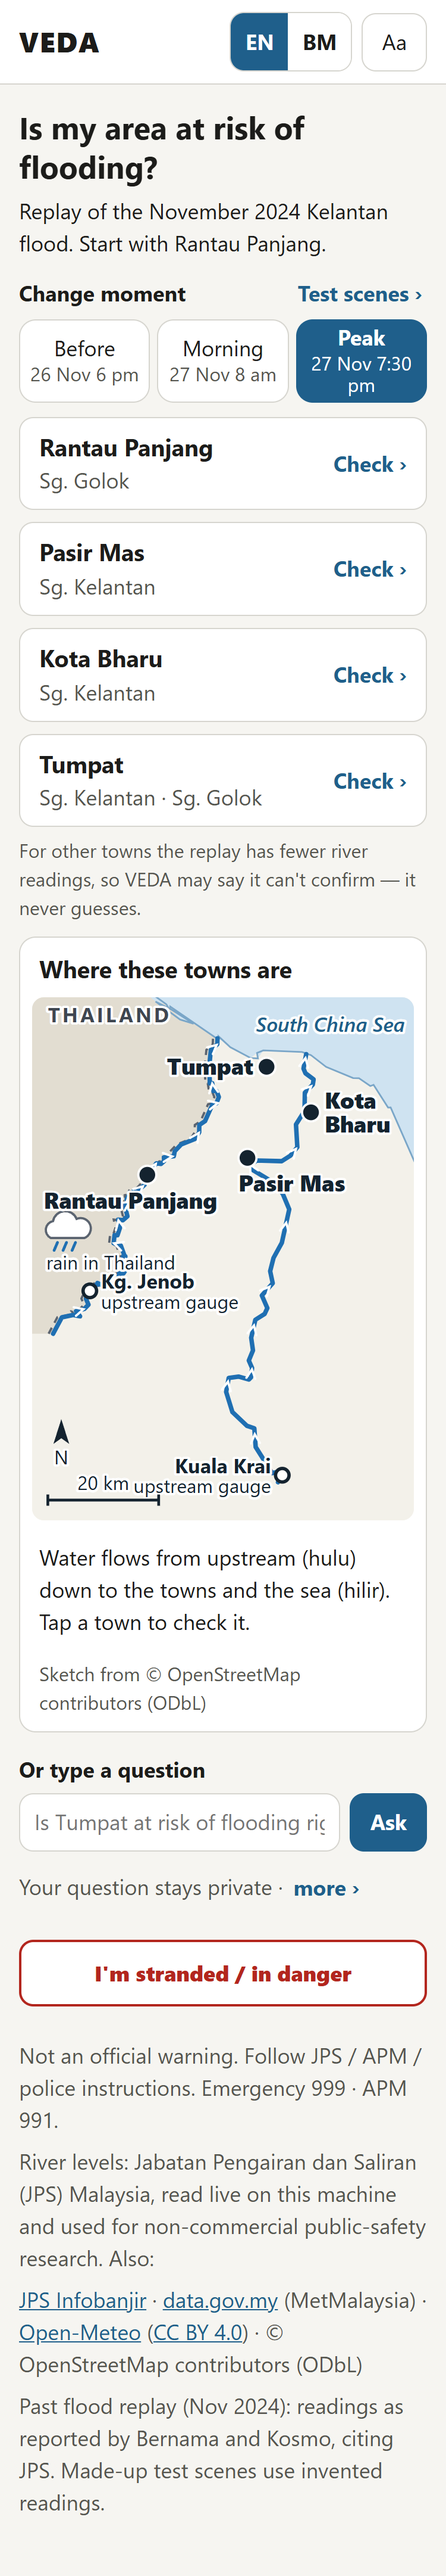
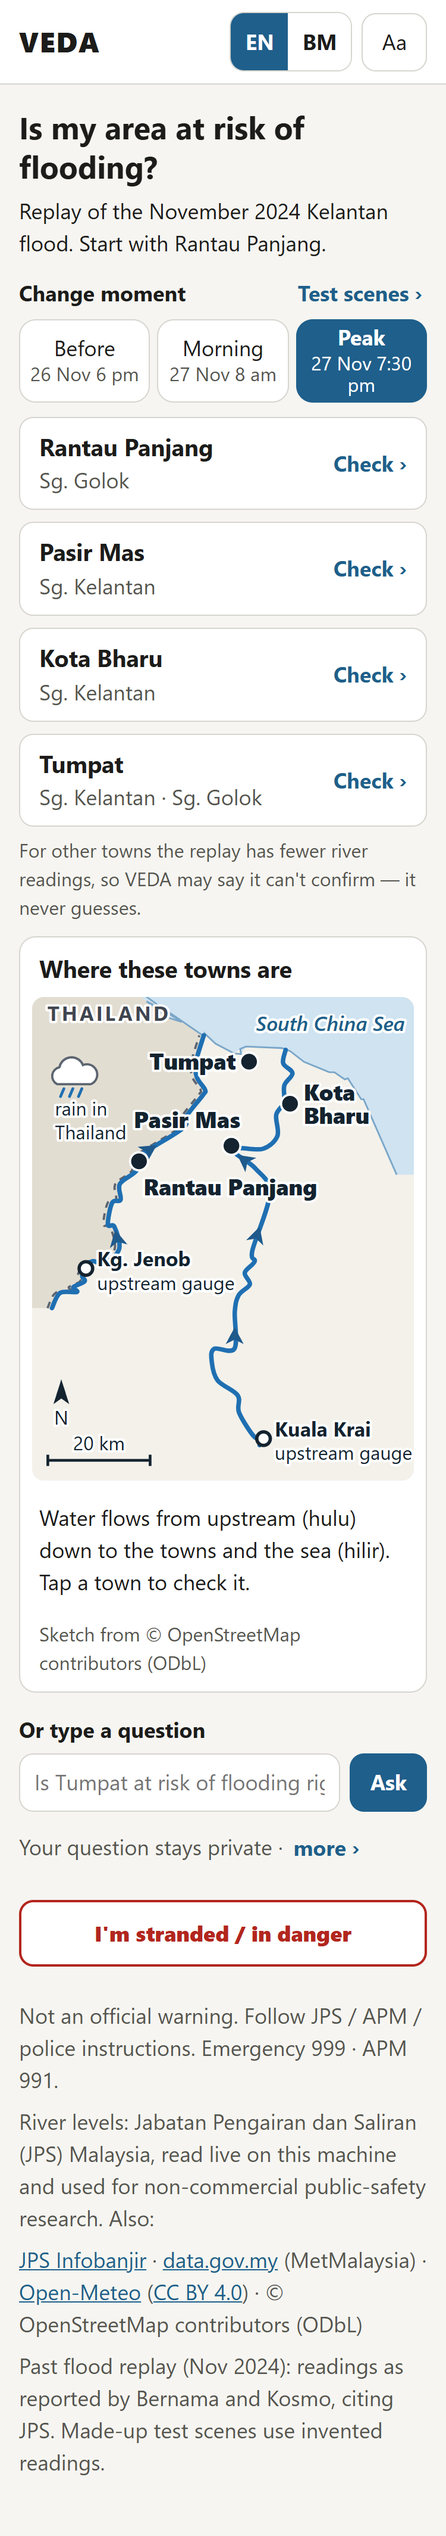
fix: B-87 map polish: Kuala Krai and Rantau Panjang labels right of their dots, filled dark-blue downstream arrows (3 + 2), smooth river and border curves, rain cloud inside Thailand; README test count 943

Changed region(s): [[0.0307, 0.0312, 0.9507, 0.9683], [0.5827, 0.0312, 0.92, 0.1874], [0.7667, 0.6872, 0.9507, 0.7184]]

diff --git a/app/web/index.html b/app/web/index.html
@@ -136,7 +136,7 @@
   .m-coast { fill: none; stroke: #7aa6c8; stroke-width: 1.5; }
   .m-border { fill: none; stroke: #5B6470; stroke-width: 2; stroke-dasharray: 6 5; transform: translate(-4px, 0); }
   .m-river { fill: none; stroke: #1f6fb2; stroke-width: 4; stroke-linejoin: round; stroke-linecap: round; }
-  .m-arrow { fill: none; stroke: #ffffff; stroke-width: 2; stroke-linecap: round; }
+  .m-arrow { fill: #1F5A8C; stroke: none; }
   .m-label { font: 700 18px system-ui, -apple-system, "Segoe UI", sans-serif; fill: #14232F; paint-order: stroke;
              stroke: #ffffff; stroke-width: 4px; stroke-linejoin: round; }
   .m-small { font-size: 17px; font-weight: 400; }
@@ -220,26 +220,27 @@
   <div class="card map-box" id="map-box">
     <h2 data-t="map_heading"></h2>
 <!-- MAP START (scripts/make_home_map.py) -->
-<svg viewBox="0 0 340 465" class="home-map" role="group" aria-labelledby="map-title map-alt">
+<svg viewBox="0 0 340 430" class="home-map" role="group" aria-labelledby="map-title map-alt">
 <title id="map-title" data-t="map_title"></title><desc id="map-alt" data-t="map_alt"></desc>
-<rect width="340" height="465" class="m-land"/>
-<path d="M18.7 299.1 L26.5 284.5 L36.6 282.4 L42.7 283.6 L39.2 279.0 L46.4 277.1 L50.2 273.3 L47.9 267.9 L52.1 258.3 L56.2 258.2 L58.2 254.0 L63.7 256.6 L69.9 255.7 L76.8 250.1 L77.5 245.4 L81.4 245.5 L83.5 242.0 L83.0 230.3 L80.8 231.0 L82.0 228.9 L79.0 220.8 L72.6 218.6 L73.4 211.5 L76.0 211.6 L78.2 205.0 L76.7 197.7 L80.9 198.2 L84.9 194.7 L82.4 184.8 L86.2 182.2 L84.1 179.6 L86.0 176.6 L87.6 178.4 L87.0 174.8 L89.1 176.9 L90.4 172.1 L92.6 173.5 L100.2 166.7 L99.5 159.2 L103.3 152.9 L106.2 153.8 L110.6 147.6 L114.8 148.1 L117.6 145.6 L117.4 142.3 L126.2 141.3 L127.0 136.9 L132.8 130.8 L144.8 126.1 L148.8 120.1 L148.9 113.5 L154.0 110.1 L160.7 95.1 L164.1 94.3 L166.3 88.7 L164.2 83.3 L161.5 83.3 L160.4 76.4 L158.3 76.5 L157.7 61.7 L159.2 46.8 L164.9 41.8 L165.1 36.5 L165.1 -10 L-10 -10 L-10 299.1 Z" class="m-thai"/>
-<path d="M-34.1 -144.2 L-17.2 -118.2 L14.1 -77.7 L21.9 -73.9 L24.5 -76.4 L33.4 -65.8 L46.5 -62.1 L83.4 -19.8 L109.9 3.8 L119.6 6.3 L121.6 [JPS reading] L122.9 [JPS reading] L123.0 [JPS reading] L131.8 19.8 L143.8 23.5 L163.7 36.1 L166.1 34.8 L166.3 36.7 L176.5 44.4 L194.6 54.0 L200.3 49.5 L201.1 54.4 L205.9 47.2 L240.5 48.7 L248.4 51.5 L261.8 61.9 L285.9 71.8 L291.1 72.0 L301.2 78.9 L304.1 77.8 L317.0 98.0 L319.3 97.9 L351.3 170.6 L340 170.6 L340 0 L0 0 L0 -144.2 Z" class="m-sea"/>
-<path d="M18.7 299.1 L26.5 284.5 L36.6 282.4 L42.7 283.6 L39.2 279.0 L46.4 277.1 L50.2 273.3 L47.9 267.9 L52.1 258.3 L56.2 258.2 L58.2 254.0 L63.7 256.6 L69.9 255.7 L76.8 250.1 L77.5 245.4 L81.4 245.5 L83.5 242.0 L83.0 230.3 L80.8 231.0 L82.0 228.9 L79.0 220.8 L72.6 218.6 L73.4 211.5 L76.0 211.6 L78.2 205.0 L76.7 197.7 L80.9 198.2 L84.9 194.7 L82.4 184.8 L86.2 182.2 L84.1 179.6 L86.0 176.6 L87.6 178.4 L87.0 174.8 L89.1 176.9 L90.4 172.1 L92.6 173.5 L100.2 166.7 L99.5 159.2 L103.3 152.9 L106.2 153.8 L110.6 147.6 L114.8 148.1 L117.6 145.6 L117.4 142.3 L126.2 141.3 L127.0 136.9 L132.8 130.8 L144.8 126.1 L148.8 120.1 L148.9 113.5 L154.0 110.1 L160.7 95.1 L164.1 94.3 L166.3 88.7 L164.2 83.3 L161.5 83.3 L160.4 76.4 L158.3 76.5 L157.7 61.7 L159.2 46.8 L164.9 41.8 L165.1 36.5" class="m-border"/>
-<path d="M351.3 170.6 L319.3 97.9 L317.0 98.0 L304.1 77.8 L301.2 78.9 L291.1 72.0 L285.9 71.8 L261.8 61.9 L248.4 51.5 L240.5 48.7 L205.9 47.2 L200.3 49.5 L201.1 54.4 L194.6 54.0 L176.5 44.4 L166.1 34.8 L166.3 36.7 L163.7 36.1 L123.0 [JPS reading] L122.9 [JPS reading] L143.8 23.5 L131.8 19.8 L109.9 3.8 L121.6 [JPS reading] L119.6 6.3 L83.4 -19.8 L46.5 -62.1 L33.4 -65.8 L24.5 -76.4 L21.9 -73.9 L14.1 -77.7 L-17.2 -118.2 L-34.1 -144.2" class="m-coast"/>
-<path d="M219.0 431.1 L221.8 424.3 L219.1 421.8 L213.8 423.0 L199.1 399.8 L197.9 383.2 L191.4 381.0 L178.4 368.8 L172.8 350.8 L175.1 338.4 L183.8 337.2 L193.1 339.8 L194.9 338.0 L195.9 329.5 L193.0 322.9 L196.7 313.9 L195.1 302.7 L198.8 286.7 L207.1 281.5 L209.5 276.3 L204.6 265.1 L214.3 254.2 L212.0 243.5 L215.0 231.7 L222.4 218.3 L229.0 188.5 L223.3 174.9 L215.0 164.7 L196.8 153.7 L194.4 149.2 L200.0 145.1 L222.3 145.7 L230.0 140.8 L236.2 133.3 L235.0 113.1 L242.6 101.1 L242.9 84.8 L250.0 77.6 L250.7 73.0 L243.5 67.6 L241.7 63.4 L244.1 50.6" class="m-river"/><path d="M-5 -4 L3 0 L-5 4" transform="translate(198.5 391.5) rotate(-94)" class="m-arrow"/><path d="M-5 -4 L3 0 L-5 4" transform="translate(173.9 344.6) rotate(-79)" class="m-arrow"/><path d="M-5 -4 L3 0 L-5 4" transform="translate(195.4 333.8) rotate(-83)" class="m-arrow"/><path d="M-5 -4 L3 0 L-5 4" transform="translate(196.9 294.7) rotate(-77)" class="m-arrow"/><path d="M-5 -4 L3 0 L-5 4" transform="translate(209.4 259.6) rotate(-48)" class="m-arrow"/><path d="M-5 -4 L3 0 L-5 4" transform="translate(225.7 203.4) rotate(-78)" class="m-arrow"/><path d="M-5 -4 L3 0 L-5 4" transform="translate(195.6 151.4) rotate(-118)" class="m-arrow"/><path d="M-5 -4 L3 0 L-5 4" transform="translate(233.1 137.1) rotate(-50)" class="m-arrow"/><path d="M-5 -4 L3 0 L-5 4" transform="translate(246.4 81.2) rotate(-45)" class="m-arrow"/><path d="M-5 -4 L3 0 L-5 4" transform="translate(242.9 57.0) rotate(-79)" class="m-arrow"/>
-<path d="M18.7 299.1 L26.5 284.5 L36.6 282.4 L42.7 283.6 L39.2 279.0 L46.4 277.1 L50.2 273.3 L47.9 267.9 L52.1 258.3 L56.2 258.2 L58.2 254.0 L63.7 256.6 L69.9 255.7 L76.8 250.1 L77.5 245.4 L81.4 245.5 L83.5 242.0 L83.0 230.3 L80.8 231.0 L82.0 228.9 L79.0 220.8 L72.6 218.6 L73.4 211.5 L76.0 211.6 L78.2 205.0 L76.7 197.7 L80.9 198.2 L84.9 194.7 L82.4 184.8 L86.2 182.2 L84.1 179.6 L86.0 176.6 L87.6 178.4 L87.0 174.8 L89.1 176.9 L90.4 172.1 L92.6 173.5 L100.2 166.7 L99.5 159.2 L103.3 152.9 L106.2 153.8 L110.6 147.6 L114.8 148.1 L117.6 145.6 L117.4 142.3 L126.2 141.3 L127.0 136.9 L132.8 130.8 L144.8 126.1 L148.8 120.1 L148.9 113.5 L154.0 110.1 L160.7 95.1 L164.1 94.3 L166.3 88.7 L164.2 83.3 L161.5 83.3 L160.4 76.4 L158.3 76.5 L157.7 61.7 L159.2 46.8 L164.9 41.8 L165.1 36.5" class="m-river"/><path d="M-5 -4 L3 0 L-5 4" transform="translate(42.8 278.1) rotate(-15)" class="m-arrow"/><path d="M-5 -4 L3 0 L-5 4" transform="translate(54.2 258.2) rotate(-1)" class="m-arrow"/><path d="M-5 -4 L3 0 L-5 4" transform="translate(73.3 252.9) rotate(-39)" class="m-arrow"/><path d="M-5 -4 L3 0 L-5 4" transform="translate(83.2 236.2) rotate(-92)" class="m-arrow"/><path d="M-5 -4 L3 0 L-5 4" transform="translate(75.8 219.7) rotate(-161)" class="m-arrow"/><path d="M-5 -4 L3 0 L-5 4" transform="translate(77.5 201.3) rotate(-102)" class="m-arrow"/><path d="M-5 -4 L3 0 L-5 4" transform="translate(84.3 183.5) rotate(-34)" class="m-arrow"/><path d="M-5 -4 L3 0 L-5 4" transform="translate(87.3 176.6) rotate(-99)" class="m-arrow"/><path d="M-5 -4 L3 0 L-5 4" transform="translate(96.4 170.1) rotate(-42)" class="m-arrow"/><path d="M-5 -4 L3 0 L-5 4" transform="translate(108.4 150.7) rotate(-55)" class="m-arrow"/><path d="M-5 -4 L3 0 L-5 4" transform="translate(121.8 141.8) rotate(-6)" class="m-arrow"/><path d="M-5 -4 L3 0 L-5 4" transform="translate(146.8 123.1) rotate(-56)" class="m-arrow"/><path d="M-5 -4 L3 0 L-5 4" transform="translate(162.4 94.7) rotate(-13)" class="m-arrow"/><path d="M-5 -4 L3 0 L-5 4" transform="translate(160.9 79.8) rotate(-99)" class="m-arrow"/><path d="M-5 -4 L3 0 L-5 4" transform="translate(162.1 44.3) rotate(-41)" class="m-arrow"/>
-<text x="14.2" y="22.4" class="m-label m-thai-label" data-t="map_thailand"></text>
-<g transform="translate(30.6 208.0)" class="m-cloud"><path d="M-14 6 a8 8 0 0 1 2 -15 a11 11 0 0 1 21 -2 a8 8 0 0 1 7 17 Z"/><path d="M-8 10 l-3 7 M0 10 l-3 7 M8 10 l-3 7" class="m-rain"/><text x="-18" y="34" class="m-label m-small" data-t="map_rain"></text></g>
-<text x="332" y="30.9" class="m-label m-sea-label" text-anchor="end" data-t="map_sea"></text>
-<circle cx="222.8" cy="424.9" r="6" class="m-gauge"/><text x="212.8" y="422.9" text-anchor="end" class="m-label">Kuala Krai</text><text x="212.8" y="440.9" text-anchor="end" class="m-label m-small" data-t="map_gauge"></text>
-<circle cx="51.4" cy="261.0" r="6" class="m-gauge"/><text x="61.4" y="259.0" text-anchor="start" class="m-label">Kg. Jenob</text><text x="61.4" y="277.0" text-anchor="start" class="m-label m-small" data-t="map_gauge"></text>
-<g class="m-town" role="button" tabindex="0" data-town="Pasir Mas"><rect x="175.8" y="130.8" width="128.4" height="56" rx="10" class="m-hit"/><circle cx="191.8" cy="142.8" r="8" class="m-dot"/><text x="183.8" y="172.8" text-anchor="start" class="m-label m-town-label">Pasir Mas</text></g>
-<g class="m-town" role="button" tabindex="0" data-town="Rantau Panjang"><rect x="0.4" y="141.8" width="174.4" height="56" rx="10" class="m-hit"/><circle cx="102.6" cy="157.8" r="8" class="m-dot"/><text x="87.6" y="187.8" text-anchor="middle" class="m-label m-town-label">Rantau Panjang</text></g>
-<g class="m-town" role="button" tabindex="0" data-town="Kota Bharu"><rect x="232.4" y="74.3" width="90.0" height="56" rx="10" class="m-hit"/><circle cx="248.4" cy="102.3" r="8" class="m-dot"/><text x="260.4" y="99.3" class="m-label m-town-label">Kota<tspan x="260.4" dy="21">Bharu</tspan></text></g>
-<g class="m-town" role="button" tabindex="0" data-town="Tumpat"><rect x="123.2" y="33.8" width="101.6" height="56" rx="10" class="m-hit"/><circle cx="208.8" cy="61.8" r="8" class="m-dot"/><text x="196.8" y="68.8" text-anchor="end" class="m-label m-town-label">Tumpat</text></g>
-<g transform="translate(26 391)" class="m-north"><path d="M0 -16 L7 6 L0 1 L-7 6 Z"/><text x="0" y="24" text-anchor="middle" class="m-label m-small">N</text></g>
-<g class="m-scale"><path d="M14 447 h98.7 M14 442 v10 M112.7 442 v10"/><text x="63.4" y="438" text-anchor="middle" class="m-label m-small">20 km</text></g>
+<rect width="340" height="430" class="m-land"/>
+<path d="M17.7 276.6 C18.9 274.4 21.2 265.5 24.9 263.1 C28.6 260.7 37.9 263.2 39.9 262.3 C41.9 261.4 35.6 259.6 36.7 258.0 C37.9 256.4 45.5 254.5 46.8 252.8 C48.1 251.1 44.3 250.1 44.6 247.8 C44.9 245.5 46.9 241.1 48.5 238.9 C50.1 236.8 51.5 235.3 54.2 234.9 C57.0 234.5 61.1 238.3 65.0 236.5 C68.9 234.7 76.2 229.2 77.6 223.8 C79.0 218.4 75.0 207.9 73.3 204.3 C71.6 200.7 67.8 205.8 67.5 202.2 C67.2 198.6 69.4 186.7 71.3 183.0 C73.2 179.3 77.7 183.0 78.8 180.2 C79.9 177.4 75.8 170.6 78.1 166.3 C80.4 162.0 90.0 158.5 92.9 154.4 C95.9 150.3 88.9 147.9 95.8 141.6 C102.7 135.3 127.1 122.8 134.1 116.8 C141.1 110.8 134.9 110.2 137.9 105.3 C140.9 100.4 149.2 91.3 151.9 87.5 C154.6 83.7 154.9 85.1 154.0 82.4 C153.1 79.7 147.9 75.3 146.6 71.1 C145.3 66.9 144.9 63.6 146.0 57.4 C147.1 51.2 151.8 38.0 152.9 34.1 L152.9 -10 L-10 -10 L-10 276.6 Z" class="m-thai"/>
+<path d="M-31.0 -132.6 L-15.4 -108.7 L13.5 -71.2 L20.7 -67.7 L23.0 -70.0 L31.3 -60.2 L43.4 -56.9 L77.4 -17.8 L101.9 3.9 L110.8 6.2 L112.7 9.4 L113.9 9.9 L114.0 8.1 L122.1 18.7 L133.2 22.2 L151.5 33.8 L153.8 32.6 L154.0 34.3 L163.3 41.5 L180.1 50.3 L185.3 46.1 L186.1 50.7 L190.5 44.0 L222.4 45.4 L229.7 48.0 L242.1 57.6 L264.4 66.8 L269.2 66.9 L278.5 73.3 L281.2 72.3 L293.1 90.9 L295.2 90.9 L324.7 158.0 L340 158.0 L340 0 L0 0 L0 -132.6 Z" class="m-sea"/>
+<path d="M17.7 276.6 C18.9 274.4 21.2 265.5 24.9 263.1 C28.6 260.7 37.9 263.2 39.9 262.3 C41.9 261.4 35.6 259.6 36.7 258.0 C37.9 256.4 45.5 254.5 46.8 252.8 C48.1 251.1 44.3 250.1 44.6 247.8 C44.9 245.5 46.9 241.1 48.5 238.9 C50.1 236.8 51.5 235.3 54.2 234.9 C57.0 234.5 61.1 238.3 65.0 236.5 C68.9 234.7 76.2 229.2 77.6 223.8 C79.0 218.4 75.0 207.9 73.3 204.3 C71.6 200.7 67.8 205.8 67.5 202.2 C67.2 198.6 69.4 186.7 71.3 183.0 C73.2 179.3 77.7 183.0 78.8 180.2 C79.9 177.4 75.8 170.6 78.1 166.3 C80.4 162.0 90.0 158.5 92.9 154.4 C95.9 150.3 88.9 147.9 95.8 141.6 C102.7 135.3 127.1 122.8 134.1 116.8 C141.1 110.8 134.9 110.2 137.9 105.3 C140.9 100.4 149.2 91.3 151.9 87.5 C154.6 83.7 154.9 85.1 154.0 82.4 C153.1 79.7 147.9 75.3 146.6 71.1 C145.3 66.9 144.9 63.6 146.0 57.4 C147.1 51.2 151.8 38.0 152.9 34.1" class="m-border"/>
+<path d="M324.7 158.0 L295.2 90.9 L293.1 90.9 L281.2 72.3 L278.5 73.3 L269.2 66.9 L264.4 66.8 L242.1 57.6 L229.7 48.0 L222.4 45.4 L190.5 44.0 L185.3 46.1 L186.1 50.7 L180.1 50.3 L163.3 41.5 L153.8 32.6 L154.0 34.3 L151.5 33.8 L114.0 8.1 L113.9 9.9 L133.2 22.2 L122.1 18.7 L101.9 3.9 L112.7 9.4 L110.8 6.2 L77.4 -17.8 L43.4 -56.9 L31.3 -60.2 L23.0 -70.0 L20.7 -67.7 L13.5 -71.2 L-15.4 -108.7 L-31.0 -132.6" class="m-coast"/>
+<path d="M202.6 398.4 C203.0 397.4 206.0 393.4 205.2 392.2 C204.4 391.0 201.3 394.8 197.8 391.0 C194.3 387.2 186.8 375.6 184.3 369.5 C181.9 363.4 186.3 359.0 183.1 354.2 C179.9 349.4 169.0 345.9 165.2 340.9 C161.3 335.9 160.5 329.0 160.0 324.3 C159.5 319.6 158.7 314.8 162.1 312.8 C165.5 310.8 177.2 318.0 180.3 312.5 C183.4 307.0 179.9 287.8 180.5 279.9 C181.1 272.0 181.8 269.2 184.0 265.1 C186.2 261.0 193.0 258.8 193.9 255.5 C194.8 252.2 188.7 248.6 189.4 245.2 C190.1 241.8 197.1 238.4 198.2 235.1 C199.3 231.8 193.9 235.3 196.2 225.2 C198.5 215.1 211.4 186.6 211.8 174.5 C212.2 162.4 204.2 158.6 198.9 152.5 C193.6 146.4 182.2 141.1 179.9 138.1 C177.6 135.1 180.8 134.9 185.1 134.4 C189.4 133.9 200.1 136.7 205.7 134.9 C211.3 133.1 216.6 128.5 218.5 123.5 C220.4 118.5 216.4 109.8 217.4 104.8 C218.4 99.8 223.2 98.1 224.4 93.8 C225.6 89.5 223.3 83.0 224.6 78.7 C225.8 74.4 232.1 71.1 231.9 67.8 C231.7 64.5 224.6 62.3 223.6 58.9 C222.6 55.5 225.4 49.1 225.8 47.1" class="m-river"/>
+<path d="M17.7 276.6 C18.9 274.4 21.2 265.5 24.9 263.1 C28.6 260.7 37.9 263.2 39.9 262.3 C41.9 261.4 35.6 259.6 36.7 258.0 C37.9 256.4 45.5 254.5 46.8 252.8 C48.1 251.1 44.3 250.1 44.6 247.8 C44.9 245.5 46.9 241.1 48.5 238.9 C50.1 236.8 51.5 235.3 54.2 234.9 C57.0 234.5 61.1 238.3 65.0 236.5 C68.9 234.7 76.2 229.2 77.6 223.8 C79.0 218.4 75.0 207.9 73.3 204.3 C71.6 200.7 67.8 205.8 67.5 202.2 C67.2 198.6 69.4 186.7 71.3 183.0 C73.2 179.3 77.7 183.0 78.8 180.2 C79.9 177.4 75.8 170.6 78.1 166.3 C80.4 162.0 90.0 158.5 92.9 154.4 C95.9 150.3 88.9 147.9 95.8 141.6 C102.7 135.3 127.1 122.8 134.1 116.8 C141.1 110.8 134.9 110.2 137.9 105.3 C140.9 100.4 149.2 91.3 151.9 87.5 C154.6 83.7 154.9 85.1 154.0 82.4 C153.1 79.7 147.9 75.3 146.6 71.1 C145.3 66.9 144.9 63.6 146.0 57.4 C147.1 51.2 151.8 38.0 152.9 34.1" class="m-river"/>
+<path d="M-7 -8 L8 0 L-7 8 L-3 0 Z" transform="translate(180.4 301.6) rotate(-90)" class="m-arrow"/><path d="M-7 -8 L8 0 L-7 8 L-3 0 Z" transform="translate(200.3 211.9) rotate(-73)" class="m-arrow"/><path d="M-7 -8 L8 0 L-7 8 L-3 0 Z" transform="translate(189.2 145.2) rotate(-143)" class="m-arrow"/><path d="M-7 -8 L8 0 L-7 8 L-3 0 Z" transform="translate(75.6 214.8) rotate(-102)" class="m-arrow"/><path d="M-7 -8 L8 0 L-7 8 L-3 0 Z" transform="translate(104.2 136.1) rotate(-33)" class="m-arrow"/>
+<text x="13.6" y="21.1" class="m-label m-thai-label" data-t="map_thailand"></text>
+<g transform="translate(36.3 71.5)" class="m-cloud"><path d="M-14 6 a8 8 0 0 1 2 -15 a11 11 0 0 1 21 -2 a8 8 0 0 1 7 17 Z"/><path d="M-8 10 l-3 7 M0 10 l-3 7 M8 10 l-3 7" class="m-rain"/><text x="-16" y="34" class="m-label m-small" data-t="map_rain1"></text><text x="-16" y="55" class="m-label m-small" data-t="map_rain2"></text></g>
+<text x="332" y="30.1" class="m-label m-sea-label" text-anchor="end" data-t="map_sea"></text>
+<circle cx="206.1" cy="392.7" r="6" class="m-gauge"/><text x="216.1" y="390.7" text-anchor="start" class="m-label">Kuala Krai</text><text x="216.1" y="411.7" text-anchor="start" class="m-label m-small" data-t="map_gauge"></text>
+<circle cx="47.9" cy="241.4" r="6" class="m-gauge"/><text x="57.9" y="239.4" text-anchor="start" class="m-label">Kg. Jenob</text><text x="57.9" y="260.4" text-anchor="start" class="m-label m-small" data-t="map_gauge"></text>
+<g class="m-town" role="button" tabindex="0" data-town="Pasir Mas"><rect x="65.1" y="86.3" width="128.4" height="54" rx="10" class="m-hit"/><circle cx="177.5" cy="132.3" r="8" class="m-dot"/><text x="185.5" y="116.30000000000001" text-anchor="end" class="m-label m-town-label">Pasir Mas</text></g>
+<g class="m-town" role="button" tabindex="0" data-town="Rantau Panjang"><rect x="79.2" y="141.1" width="186.4" height="56" rx="10" class="m-hit"/><circle cx="95.2" cy="146.1" r="8" class="m-dot"/><text x="99.2" y="176.1" text-anchor="start" class="m-label m-town-label">Rantau Panjang</text></g>
+<g class="m-town" role="button" tabindex="0" data-town="Kota Bharu"><rect x="213.7" y="66.9" width="90.0" height="56" rx="10" class="m-hit"/><circle cx="229.7" cy="94.9" r="8" class="m-dot"/><text x="241.7" y="91.9" class="m-label m-town-label">Kota<tspan x="241.7" dy="21">Bharu</tspan></text></g>
+<g class="m-town" role="button" tabindex="0" data-town="Tumpat"><rect x="107.6" y="29.5" width="101.6" height="56" rx="10" class="m-hit"/><circle cx="193.2" cy="57.5" r="8" class="m-dot"/><text x="181.2" y="64.5" text-anchor="end" class="m-label m-town-label">Tumpat</text></g>
+<g transform="translate(26 356)" class="m-north"><path d="M0 -16 L7 6 L0 1 L-7 6 Z"/><text x="0" y="24" text-anchor="middle" class="m-label m-small">N</text></g>
+<g class="m-scale"><path d="M14 412 h91.1 M14 407 v10 M105.1 407 v10"/><text x="59.6" y="403" text-anchor="middle" class="m-label m-small">20 km</text></g>
 </svg>
 <!-- MAP END -->
     <p data-t="map_note"></p>
@@ -418,7 +419,7 @@ const UI = {
     map_heading: "Where these towns are", map_title: "Map: where the four towns are",
     map_note: "Water flows from upstream (hulu) down to the towns and the sea (hilir). Tap a town to check it.",
     map_credit: "Sketch from © OpenStreetMap contributors (ODbL)", map_thailand: "THAILAND", map_sea: "South China Sea",
-    map_rain: "rain in Thailand", map_gauge: "upstream gauge", map_check: "Check {town}",
+    map_rain1: "rain in", map_rain2: "Thailand", map_gauge: "upstream gauge", map_check: "Check {town}",
     map_alt: "Sketch map of north Kelantan. Sungai Kelantan flows north from Kuala Krai past Pasir Mas and Kota Bharu to the South China Sea near Tumpat. Sungai Golok flows north-east from Kg. Jenob past Rantau Panjang, along the border with Thailand, to the sea. Thailand lies west of the Golok.",
   },
   ms: {
@@ -471,7 +472,7 @@ const UI = {
     map_heading: "Di mana bandar-bandar ini", map_title: "Peta: di mana empat bandar ini",
     map_note: "Air mengalir dari hulu ke bandar-bandar dan ke laut (hilir). Tekan bandar untuk menyemaknya.",
     map_credit: "Lakaran daripada © penyumbang OpenStreetMap (ODbL)", map_thailand: "THAILAND", map_sea: "Laut China Selatan",
-    map_rain: "hujan di Thailand", map_gauge: "tolok hulu", map_check: "Semak {town}",
+    map_rain1: "hujan di", map_rain2: "Thailand", map_gauge: "tolok hulu", map_check: "Semak {town}",
     map_alt: "Peta lakaran utara Kelantan. Sungai Kelantan mengalir ke utara dari Kuala Krai melalui Pasir Mas dan Kota Bharu ke Laut China Selatan berhampiran Tumpat. Sungai Golok mengalir ke timur laut dari Kg. Jenob melalui Rantau Panjang, di sepanjang sempadan Thailand, ke laut. Thailand terletak di sebelah barat Sungai Golok.",
   },
 };

diff --git a/scripts/make_home_map.py b/scripts/make_home_map.py
@@ -23,14 +23,15 @@ LINES = ROOT / "data" / "map" / "home_map_lines.json"
 PAGE = ROOT / "app" / "web" / "index.html"
 START, END = "<!-- MAP START (scripts/make_home_map.py) -->", "<!-- MAP END -->"
 USER_AGENT = "VEDA-hackathon/0.1 (+https://github.com/vedacool/veda; one-off map sketch)"
-BBOX = (5.47, 101.80, 6.30, 102.40)           # south, west, north, east
+BBOX = (5.47, 101.80, 6.30, 102.45)           # south, west, north, east
 W = 340                                         # viewBox width; the height follows the map's shape
 PAD = 6
 SIMPLIFY_KM = 0.3
+DRAW_KM = 0.6                                    # simplified again when drawn, then curved
 UPSTREAM = ("5521044_DKKI0014", "_DTMH0008")    # Sg. Kelantan di Kuala Krai, Sg. Golok di Kg. Jenob
 # Label side per town, chosen so the four tap targets never overlap (Tumpat / Kota Bharu / Pasir Mas are close)
 # (side, how far the label's centre / start moves right of the dot). Measured at 375 px: no two targets overlap.
-SIDE = {"Rantau Panjang": ("below", -15), "Pasir Mas": ("below-start", 0), "Kota Bharu": ("right2", 0),
+SIDE = {"Rantau Panjang": ("right-below", 0), "Pasir Mas": ("above-end", 0), "Kota Bharu": ("right2", 0),
         "Tumpat": ("left", 0)}
 
 
@@ -137,15 +138,45 @@ def path(pts, xy):
     return "M" + " L".join(f"{x} {y}" for x, y in (xy(*p) for p in pts))
 
 
-def arrows(pts, xy, every=4):
-    """Small arrowheads along a river, pointing downstream (the list runs source -> mouth)."""
+def curve(pts, xy):
+    """A smooth path through the points (Catmull-Rom as cubic Beziers), so a river does not look jagged on a phone."""
+    p = [xy(*q) for q in pts]
+    out = [f"M{p[0][0]} {p[0][1]}"]
+    for i in range(len(p) - 1):
+        p0, p1, p2, p3 = p[max(i - 1, 0)], p[i], p[i + 1], p[min(i + 2, len(p) - 1)]
+        c1 = (round(p1[0] + (p2[0] - p0[0]) / 6, 1), round(p1[1] + (p2[1] - p0[1]) / 6, 1))
+        c2 = (round(p2[0] - (p3[0] - p1[0]) / 6, 1), round(p2[1] - (p3[1] - p1[1]) / 6, 1))
+        out.append(f"C{c1[0]} {c1[1]} {c2[0]} {c2[1]} {p2[0]} {p2[1]}")
+    return " ".join(out)
+
+
+def _along(p, f):
+    """The point at fraction f of the polyline p's length."""
+    seg = [math.dist(p[i], p[i + 1]) for i in range(len(p) - 1)]
+    goal, run = f * sum(seg), 0.0
+    for i, s in enumerate(seg):
+        if run + s >= goal:
+            t = (goal - run) / s if s else 0
+            return p[i][0] + t * (p[i + 1][0] - p[i][0]), p[i][1] + t * (p[i + 1][1] - p[i][1])
+        run += s
+    return p[-1]
+
+
+def arrows(pts, xy, fractions):
+    """Filled chevrons on the river pointing downstream (the list runs source -> mouth), each at the straightest
+    stretch near its fraction of the river's length."""
+    p = [xy(*q) for q in pts]
     out = []
-    for i in range(every, len(pts) - 1, every):
-        (ax, ay), (bx, by) = xy(*pts[i]), xy(*pts[i + 1])
-        ang = math.degrees(math.atan2(by - ay, bx - ax))
-        mx, my = round((ax + bx) / 2, 1), round((ay + by) / 2, 1)
-        out.append(f'<path d="M-5 -4 L3 0 L-5 4" transform="translate({mx} {my}) rotate({round(ang)})" '
-                   f'class="m-arrow"/>')
+    for f0 in fractions:
+        def bend(f, d=0.025):
+            a, b, c = _along(p, f - d), _along(p, f), _along(p, f + d)
+            t1, t2 = math.atan2(b[1] - a[1], b[0] - a[0]), math.atan2(c[1] - b[1], c[0] - b[0])
+            return abs((t2 - t1 + math.pi) % (2 * math.pi) - math.pi)
+        f = min((round(f0 + k / 100, 2) for k in range(-8, 9)), key=lambda x: (round(bend(x), 3), abs(x - f0)))
+        a, b, c = _along(p, f - 0.02), _along(p, f), _along(p, f + 0.02)
+        ang = math.degrees(math.atan2(c[1] - a[1], c[0] - a[0]))
+        out.append(f'<path d="M-7 -8 L8 0 L-7 8 L-3 0 Z" transform="translate({round(b[0], 1)} {round(b[1], 1)}) '
+                   f'rotate({round(ang)})" class="m-arrow"/>')
     return "".join(out)
 
 
@@ -160,12 +191,12 @@ def build():
     s, w, n, e = BBOX
     towns = [(r["name"], float(r["lat"]), float(r["lon"])) for r in rows(ROOT / "data" / "places.csv")]
     gauges = {r["station_key"]: r for r in rows(ROOT / "data" / "stations_mapping.csv", "gauge")}
-    golok, kel = data["golok"], data["kelantan"]
+    golok, kel = simplify(data["golok"], DRAW_KM), simplify(data["kelantan"], DRAW_KM)
     # Thailand: west of the Golok, from its southern end to the sea (a simplification: south of the river's source
     # the real border runs over land; the sketch stops the shading there)
     g_south, g_mouth = golok[0], golok[-1]
     mx = xy(*g_mouth)[0]              # up from the mouth, across the top, down the west edge; the sea is drawn over it
-    thai = path(golok, xy) + f" L{mx} -10 L-10 -10 L-10 {xy(g_south[0], w)[1]} Z"
+    thai = curve(golok, xy) + f" L{mx} -10 L-10 -10 L-10 {xy(g_south[0], w)[1]} Z"
     # the sea: north / east of the coastline, closed along the map's top and right edges
     coast = max(data["coast"], key=len)
     coast = sorted(coast, key=lambda p: p[1])
@@ -176,27 +207,29 @@ def build():
              f'<rect width="{W}" height="{height}" class="m-land"/>',
              f'<path d="{thai}" class="m-thai"/>',
              f'<path d="{sea}" class="m-sea"/>',
-             f'<path d="{path(golok, xy)}" class="m-border"/>']
+             f'<path d="{curve(golok, xy)}" class="m-border"/>']
     for line in data["coast"]:
         parts.append(f'<path d="{path(line, xy)}" class="m-coast"/>')
     for line in (kel, golok):
-        parts.append(f'<path d="{path(line, xy)}" class="m-river"/>' + arrows(line, xy))
+        parts.append(f'<path d="{curve(line, xy)}" class="m-river"/>')
+    parts.append(arrows(kel, xy, (0.22, 0.5, 0.74)) + arrows(golok, xy, ([JPS reading], [JPS reading])))   # 3 + 2, downstream
     tx, ty = xy(6.27, 101.815)
     parts.append(f'<text x="{tx}" y="{ty}" class="m-label m-thai-label" data-t="map_thailand"></text>')
-    cx, cy = xy(5.93, 101.845)                   # rain cloud over the Thai side of the upper Golok
+    cx, cy = xy(6.17, 101.86)                    # rain cloud inside the Thai side, clear of the river
     parts.append(f'<g transform="translate({cx} {cy})" class="m-cloud"><path d="M-14 6 a8 8 0 0 1 2 -15 a11 11 0 0 1 '
                  f'21 -2 a8 8 0 0 1 7 17 Z"/><path d="M-8 10 l-3 7 M0 10 l-3 7 M8 10 l-3 7" class="m-rain"/>'
-                 f'<text x="-18" y="34" class="m-label m-small" data-t="map_rain"></text></g>')
+                 f'<text x="-16" y="34" class="m-label m-small" data-t="map_rain1"></text>'
+                 f'<text x="-16" y="55" class="m-label m-small" data-t="map_rain2"></text></g>')
     parts.append(f'<text x="{W - 8}" y="{sea_lbl[1] + 14}" class="m-label m-sea-label" text-anchor="end" '
                  f'data-t="map_sea"></text>')
     for key in UPSTREAM:
         g = gauges[key]
         gx, gy = xy(float(g["lat"]), float(g["lon"]))
         place = g["jps_name"].split(" di ")[-1].replace(" (F1)", "")
-        lx, anchor = (gx - 10, "end") if key == UPSTREAM[0] else (gx + 10, "start")   # Kuala Krai: label left
+        lx, anchor = gx + 10, "start"                # both labels to the right of their dots
         parts.append(f'<circle cx="{gx}" cy="{gy}" r="6" class="m-gauge"/>'
                      f'<text x="{lx}" y="{gy - 2}" text-anchor="{anchor}" class="m-label">{place}</text>'
-                     f'<text x="{lx}" y="{gy + 16}" text-anchor="{anchor}" class="m-label m-small" '
+                     f'<text x="{lx}" y="{gy + 19}" text-anchor="{anchor}" class="m-label m-small" '
                      f'data-t="map_gauge"></text>')
     for name, lat, lon in towns:
         x, y = xy(lat, lon)
@@ -211,8 +244,10 @@ def build():
             lx, ly, anchor, box = x - 12, y + 7, "end", (x - 16 - wl, y - 28, wl + 32, 56)
         elif side == "right":
             lx, ly, anchor, box = x + 12, y + 7, "start", (x - 16, y - 28, wl + 32, 56)
-        elif side == "below-start":
-            lx, ly, anchor, box = x - 8 + dx, y + 30, "start", (x - 16 + dx, y - 12, wl + 24, 56)
+        elif side == "right-below":                 # on the Malaysian side, below-right of the dot
+            lx, ly, anchor, box = x + 4, y + 30, "start", (x - 16, y - 5, wl + 24, 56)
+        elif side == "above-end":                   # above-left of the dot, ending just past it
+            lx, ly, anchor, box = x + 8, y - 16, "end", (x + 16 - wl - 24, y - 46, wl + 24, 54)
         else:
             lx, ly, anchor, box = x + dx, y + 30, "middle", (x + dx - wl / 2 - 6, y - 16, wl + 12, 56)
         if side != "right2":

diff --git a/tests/test_home_map.py b/tests/test_home_map.py
@@ -55,7 +55,7 @@ def test_map_towns_do_what_the_rows_do():
 
 
 def test_map_wording_and_placement():
-    for key in ("map_heading", "map_note", "map_credit", "map_thailand", "map_sea", "map_rain", "map_gauge", "map_alt"):
+    for key in ("map_heading", "map_note", "map_credit", "map_thailand", "map_sea", "map_rain1", "map_rain2", "map_gauge", "map_alt"):
         assert PAGE.count(f"{key}: ") == 2, key                         # EN and BM
     assert "Sketch from © OpenStreetMap contributors (ODbL)" in PAGE
     assert PAGE.index('id="towns"') < PAGE.index('id="few-readings"') < PAGE.index('id="map-box"')

diff --git a/docs/OPEN.md b/docs/OPEN.md
@@ -4,7 +4,7 @@ Only two kinds of item live here (Husaini 23 Oct): **open audit findings** and *
 (what to build, in what order) is the backlog in the private planning folder; IDs `B-xx` / `S-xx` point there.
 Status lives here and in the backlog, never in Claude's memory. A finished item is deleted (git keeps the history).
 
-Last updated: 24 Oct 2026 (after B-71, B-86, A-P2-7, the new web page, the live log, how-it-worked, admin, the answer states, the accessibility pass, publish_trace and the B-88 rain rule). Tests: **938 pass** (13 skipped: live services; 24 Oct at `af05b22`). Evals: **34 of 34, ×3** (the Docker job runs them 3 times; 24 Oct at `af05b22`: job 32 s, green).
+Last updated: 24 Oct 2026 (after B-71, B-86, A-P2-7, the new web page, the live log, how-it-worked, admin, the answer states, the accessibility pass, publish_trace and the B-88 rain rule). Tests: **943 pass** (13 skipped: live services; 24 Oct). Evals: **34 of 34, ×3** (the Docker job runs them 3 times; 24 Oct at `af05b22`: job 32 s, green).
 
 ## Open audit findings (audit 2026-10-23, `docs/audit/2026-10-23-audit.md`)
 IDs are never reused. Severity: P2 = schedule, P3 = polish. Husaini 23 Oct: all are **after the hackathon** except A-P2-1 (A-P2-3 fixed in B-85: stalled streams are cut on time).

diff --git a/README.md b/README.md
@@ -219,7 +219,7 @@ its date, kind and how to reproduce it: [`docs/EVIDENCE.md`](docs/EVIDENCE.md).
 - **Critic evaluation (test harness, planted errors, 23 Oct): rejected 2 of 2 (EN + BM), no correct explanation
   wrongly rejected.** The planted errors were a contradiction ("the river is now falling" when it was rising) and an
   exaggeration in BM. They were written into the harness only, never into VEDA or its answers.
-- **Offline test suite (`python -m pytest -q`): 938 tests pass (24 Oct 2026, at `af05b22`), 13 skipped (they need live services).**
+- **Offline test suite (`python -m pytest -q`): 943 tests pass (24 Oct 2026), 13 skipped (they need live services).**
 - **Safety scenarios (`tests/evals/safety/`, `python scripts/run_evals.py`): 34 scenarios, 34 of 34 pass; pass^3:
   34 of 34 in all 3 repeat runs in CI (the Docker job runs them 3 times on every push; 24 Oct at `af05b22`: green, job
   32 s).** They run offline on the scenes with stand-in models, so they test VEDA's own

diff --git a/docs/CODEMAP.md b/docs/CODEMAP.md
@@ -416,7 +416,8 @@ _Regenerated by `python scripts/codemap.py` (runs in the pre-commit hook). Purpo
 - `def simplify(pts, tol_km)` — Douglas-Peucker in km.
 - `def project()` — _(no docstring)_
 - `def path(pts, xy)` — _(no docstring)_
-- `def arrows(pts, xy, every)` — Small arrowheads along a river, pointing downstream (the list runs source -> mouth).
+- `def curve(pts, xy)` — A smooth path through the points (Catmull-Rom as cubic Beziers), so a river does not look jagged on a phone.
+- `def arrows(pts, xy, fractions)` — Filled chevrons on the river pointing downstream (the list runs source -> mouth), each at the straightest
 - `def rows(path_, key)` — _(no docstring)_
 - `def build()` — _(no docstring)_
 - `def page_with(svg)` — _(no docstring)_
